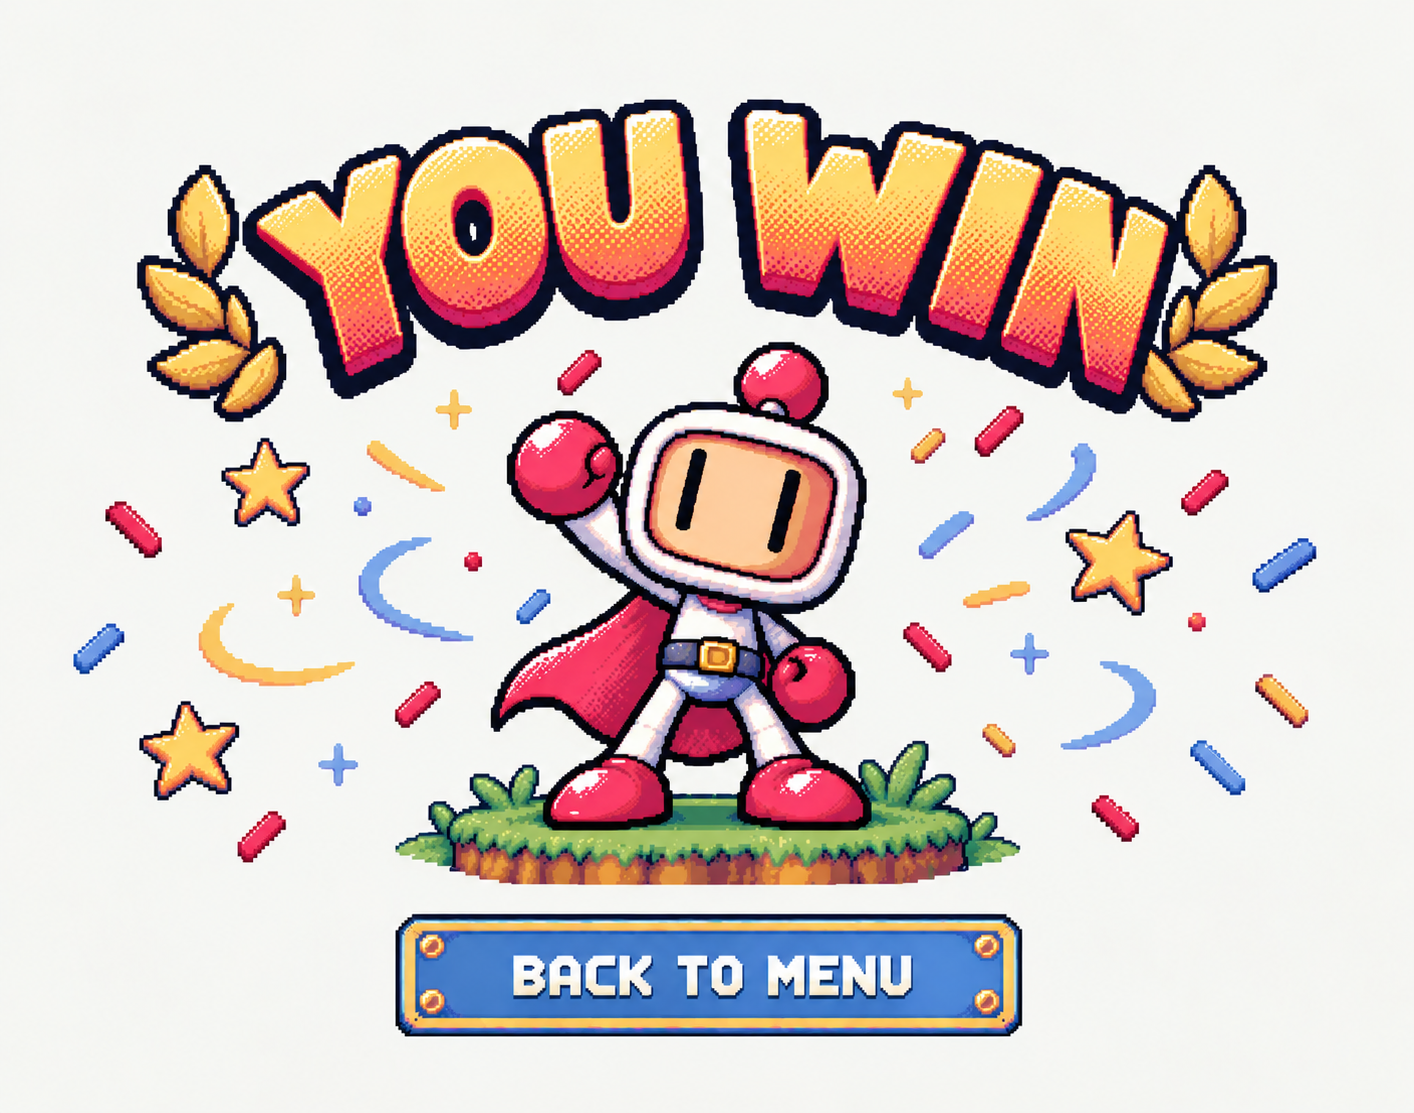
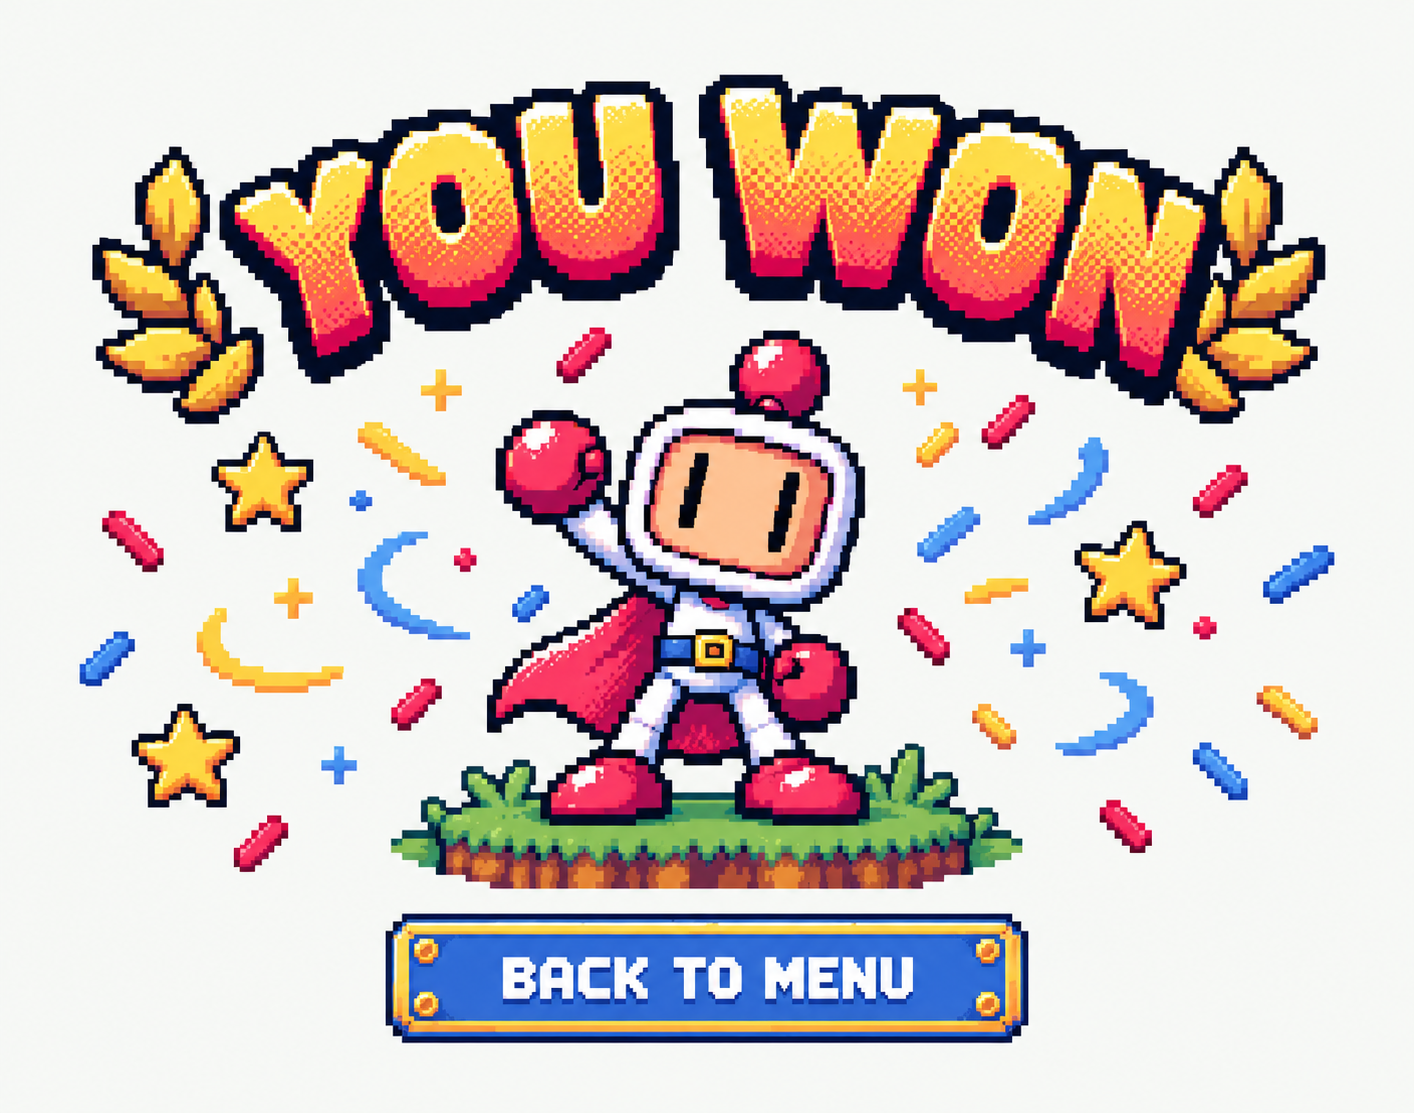
Boss' Dead

diff --git a/game/source/Player.cpp b/game/source/Player.cpp
@@ -8,6 +8,11 @@
 #define HITBOX_REDUCTION 2		// Indica cuantos pixeles quitamos al size para las colisiones de amplitud (x)
 #define MOVEMENT_VELOCITY 1		// [pxls]
 
+/*
+#define GRAVITY 0.2
+#define JUMP_VELOCITY 4
+*/
+
 #define JUMP_ANGLE_STEP 4
 #define FALL_STEP 4
 #define JUMP_HEIGHT 3*16		// bloques * pixeles_bloque
@@ -33,6 +38,7 @@ void Player::init(const glm::ivec2 &tileMapPos, ShaderProgram &shaderProgram){
 	bDead = false;
 	canJump = true;
 	win_state = false;
+	vertical_velocity = 0;
 
 	// Cargar textura
 	spritesheet.loadFromFile("images/bomberman.png", TEXTURE_PIXEL_FORMAT_RGBA);
@@ -77,7 +83,7 @@ void Player::init(const glm::ivec2 &tileMapPos, ShaderProgram &shaderProgram){
 
 		// Win
 		sprite->setAnimationSpeed(WIN, 8);
-		sprite->addKeyframe(WIN, glm::vec2(0.875f, 0.5f));
+		sprite->addKeyframe(WIN, glm::vec2(0.0f, 0.5f));
 
 	// Activamos la primera animacion
 	sprite->changeAnimation(0);
@@ -153,6 +159,36 @@ void Player::update(int deltaTime){
 		sprite->setFlipped(flipped);
 		sprite->changeAnimation(STAND);
 	}
+
+	/*
+	// Update vertical position
+	if (map->collisionMoveDown(glm::ivec2(posPlayer.x + HITBOX_REDUCTION, posPlayer.y + MOVEMENT_VELOCITY), glm::ivec2(PLAYER_SIZE - 2 * HITBOX_REDUCTION, PLAYER_SIZE), &posPlayer.y)) {
+		vertical_velocity = 0;
+		// Si queremos saltar...
+		if (Game::instance().getKey(GLFW_KEY_X) && canJump) {
+			vertical_velocity = -JUMP_VELOCITY;
+			cout << vertical_velocity << endl;
+			sprite->changeAnimation(JUMP);
+			canJump = false;
+		}
+		if (!canJump && !Game::instance().getKey(GLFW_KEY_X)) {
+			canJump = true;
+		}
+	}
+	else {
+		if (vertical_velocity < 1) sprite->changeAnimation(JUMP);
+		else sprite->changeAnimation(FALL);
+		vertical_velocity += GRAVITY;
+	}
+	posPlayer.y = posPlayer.y + vertical_velocity;
+
+	
+	// Colision techo
+	if (map->collisionMoveUp(glm::ivec2(posPlayer.x + HITBOX_REDUCTION, posPlayer.y), glm::ivec2(PLAYER_SIZE - 2 * HITBOX_REDUCTION, PLAYER_SIZE), &posPlayer.y)) {
+		vertical_velocity = 0;
+		sprite->changeAnimation(FALL);
+	}
+	*/
 	
 	// Salto 
 	if(bJumping){
@@ -183,7 +219,7 @@ void Player::update(int deltaTime){
 
 				// Colision techo
 				if (map->collisionMoveUp(glm::ivec2(posPlayer.x + HITBOX_REDUCTION, posPlayer.y), glm::ivec2(PLAYER_SIZE - 2*HITBOX_REDUCTION, PLAYER_SIZE), &posPlayer.y)){
-					bJumping = false;
+					jumpAngle = 180 - jumpAngle;
 					sprite->changeAnimation(FALL);
 				}
 			}

diff --git a/game/source/Boss.h b/game/source/Boss.h
@@ -41,8 +41,13 @@ public:
 private:
     // Render
     Sprite* sprite;
+    std::vector<Sprite*> particles;
+    std::vector<int> spawnTime;
+    std::vector<int> lifeTime;
     Texture spritesheet;
+    Texture particle_spritesheet;
     glm::ivec2 tileDispl;
+    ShaderProgram* texProgram;
 
     // Atributos
     int vida;

diff --git a/game/source/Scene.cpp b/game/source/Scene.cpp
@@ -13,12 +13,12 @@
 #define SCREEN_Y 16
 
 #define VIRTUAL_WIDTH  180.0f
-#define VIRTUAL_HEIGHT 126.0f
+#define VIRTUAL_HEIGHT 135.0f
 
 #define MENU_IN_TIME 1000.f
 #define MENU_OUT_TIME 1000.f
 
-#define CELEBRATION_TIME 5000.f;
+#define CELEBRATION_TIME 3000.f;
 
 
 // FUNCIONES DE OBJETO

diff --git a/game/source/Player.h b/game/source/Player.h
@@ -84,6 +84,8 @@ private:
 	float deathTimer = 0.f;
 	bool win_state;
 
+	float vertical_velocity;
+
 };
 
 #endif // _PLAYER_INCLUDE
